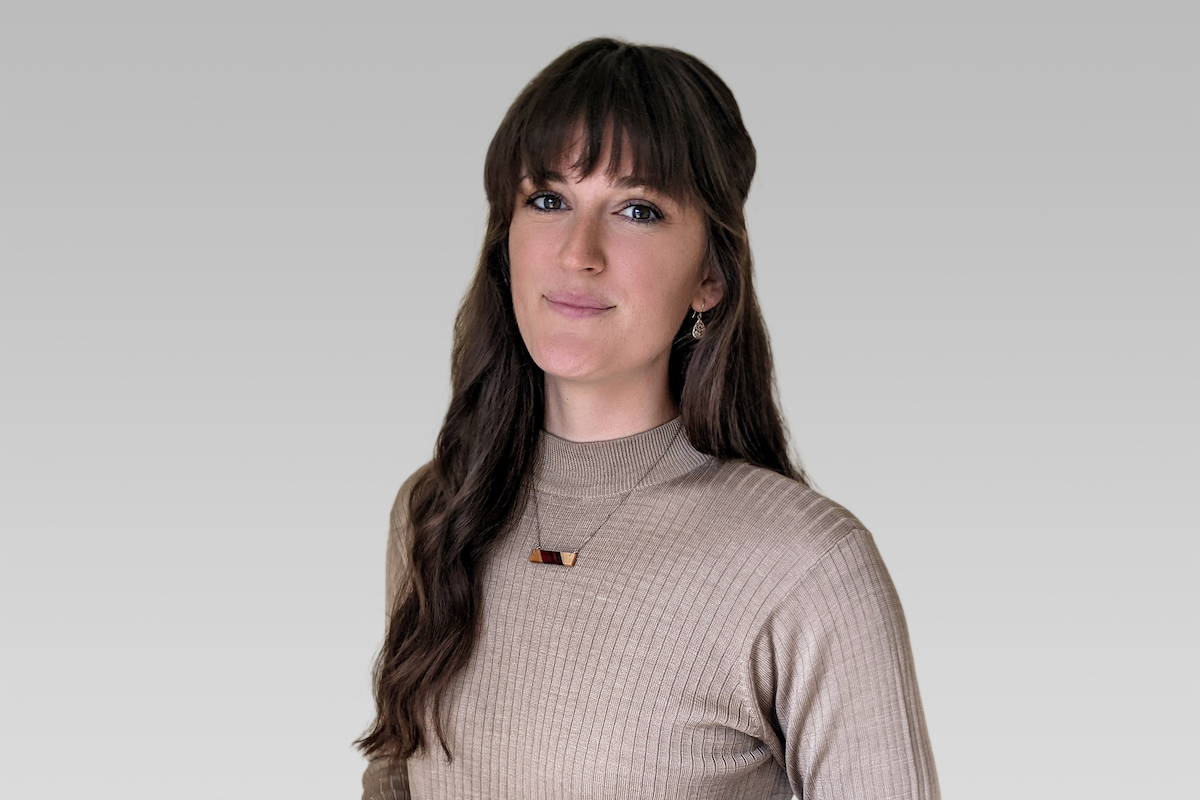
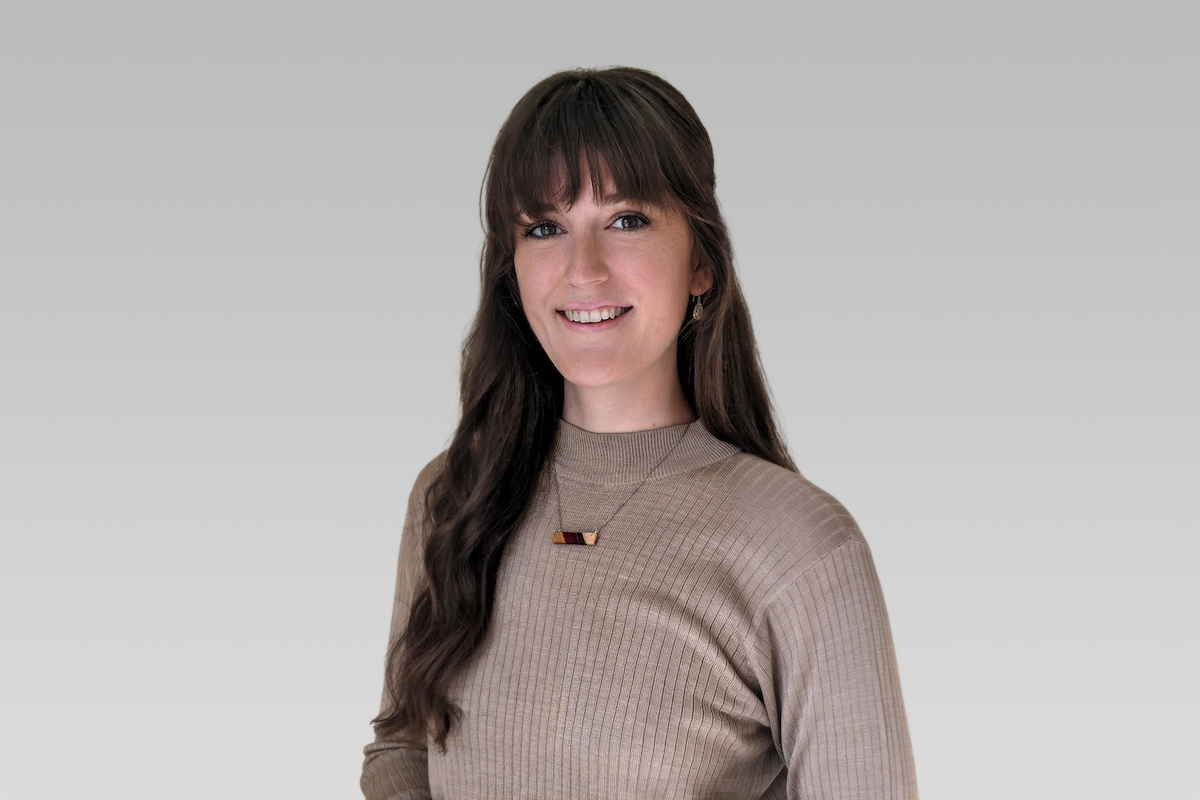
Staff Photos

Changed region(s): [[0.2775, 0.0312, 0.8017, 1.0]]

diff --git a/team/index.md b/team/index.md
@@ -316,8 +316,8 @@ ogtype: page
 	<div class="w-full lg:w-1/2 p-3">
 	  <div class="p-6 border rounded-xl">
 		<div class="flex -mx-5 flex-wrap lg:flex-nowrap">
-		  <div class="ml-4 w-full mr-4 lg:mr-0 lg:w-36 px-5 mb-4 lg:mb-0 h-52 object-cover object-top rounded-xl bg-purple-500 flex items-center justify-center">
-			<span class="text-white text-2xl">VA</span>
+		   <div class="relative ml-4 w-full mr-4 lg:mr-0 lg:w-36  mb-4 lg:mb-0 h-52 object-cover object-top rounded-xl bg-pink-500 flex items-center justify-center rounded-xl overflow-hidden">
+			<img class="w-full lg:h-52 md:h-96 h-52 object-cover object-top" src="{{ site.site_url }}/assets/images/avatars/team/new/victoria.jpg" alt="Victoria Arkhurst - vCISO">
 		  </div>
 		  <div class="w-full lg:w-2/3 px-5">
 			<h3 class="text-2xl font-semibold font-heading mb-1">Victoria Arkhurst</h3>
